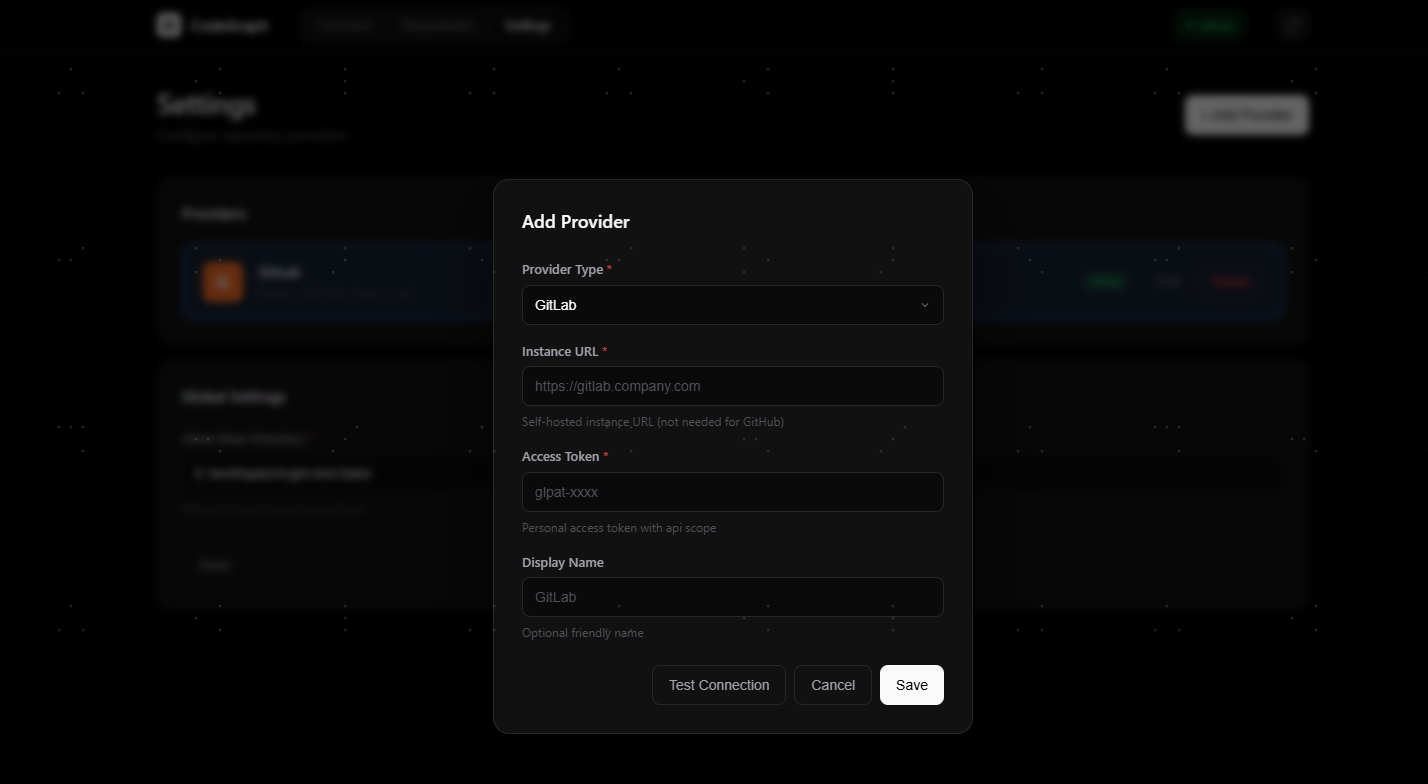
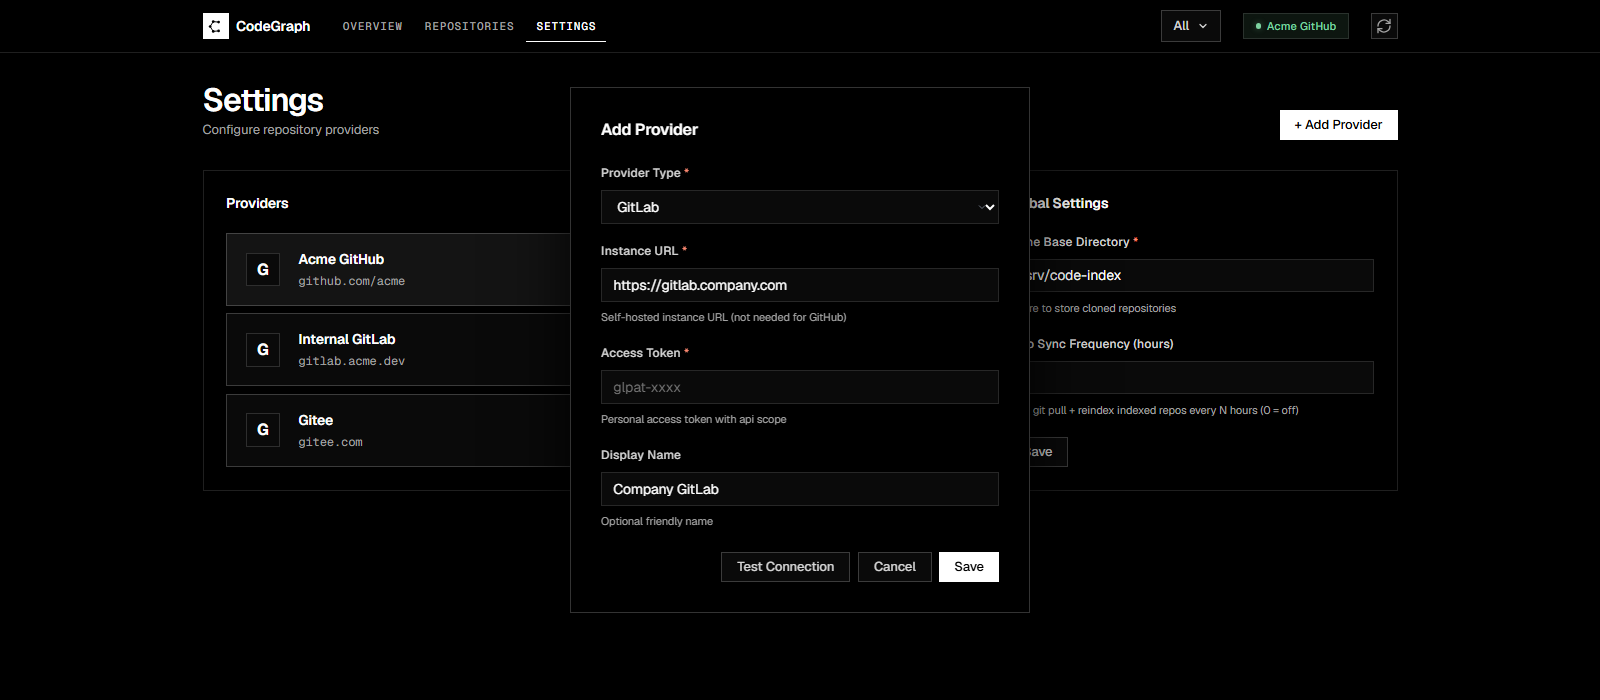
docs: refresh README screenshots for the new console
Replace the four UI images with the current alert-first overview, repository table, settings two-column layout, and add-provider dialog. Note that screenshots use Acme sample data rather than a real workspace.

diff --git a/README.en.md b/README.en.md
@@ -58,6 +58,8 @@ The whole pipeline — clone → index → AI retrieval — runs automatically. 
 |---|---|
 | ![Add provider](public/img/add-provider.png) | ![Settings](public/img/setting.png) |
 
+> Screenshots use sample data (Acme), not real repositories.
+
 ## 🚀 Quick Start
 
 **One-click install** (installs anything missing: Node → git → CodeGraph → cgm, skips what's already there):

diff --git a/README.md b/README.md
@@ -59,6 +59,8 @@
 |---|---|
 | ![添加提供商](public/img/add-provider.png) | ![设置](public/img/setting.png) |
 
+> 截图使用示例数据（Acme），不代表真实仓库内容。
+
 ## 🚀 快速开始
 
 **一键安装**（自动装齐 Node → git → CodeGraph → cgm，已装的自动跳过）：
